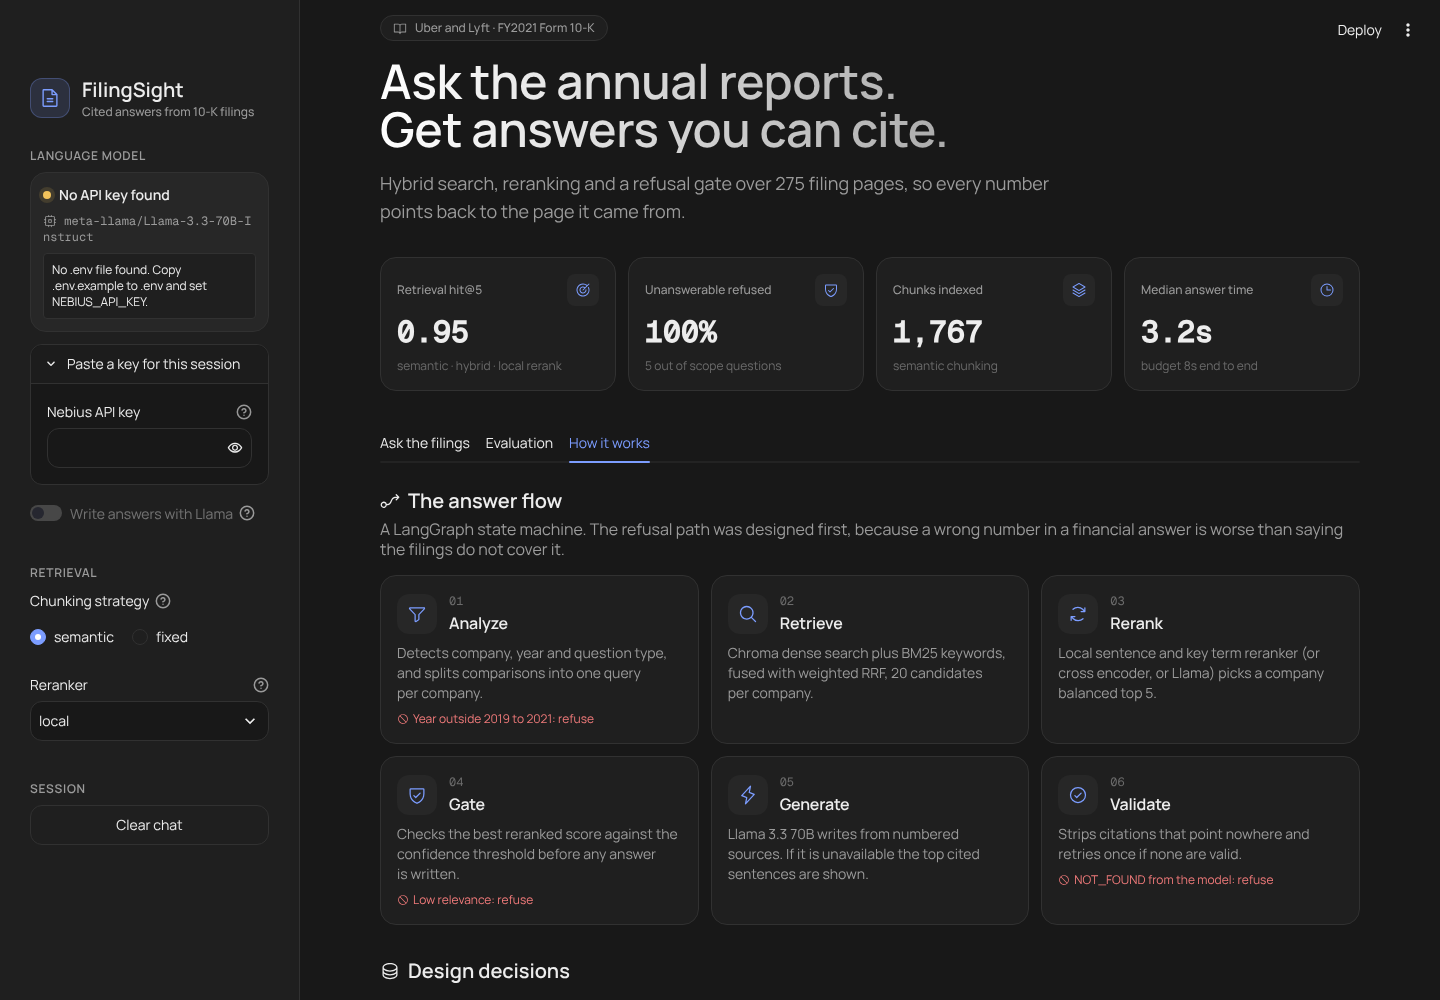
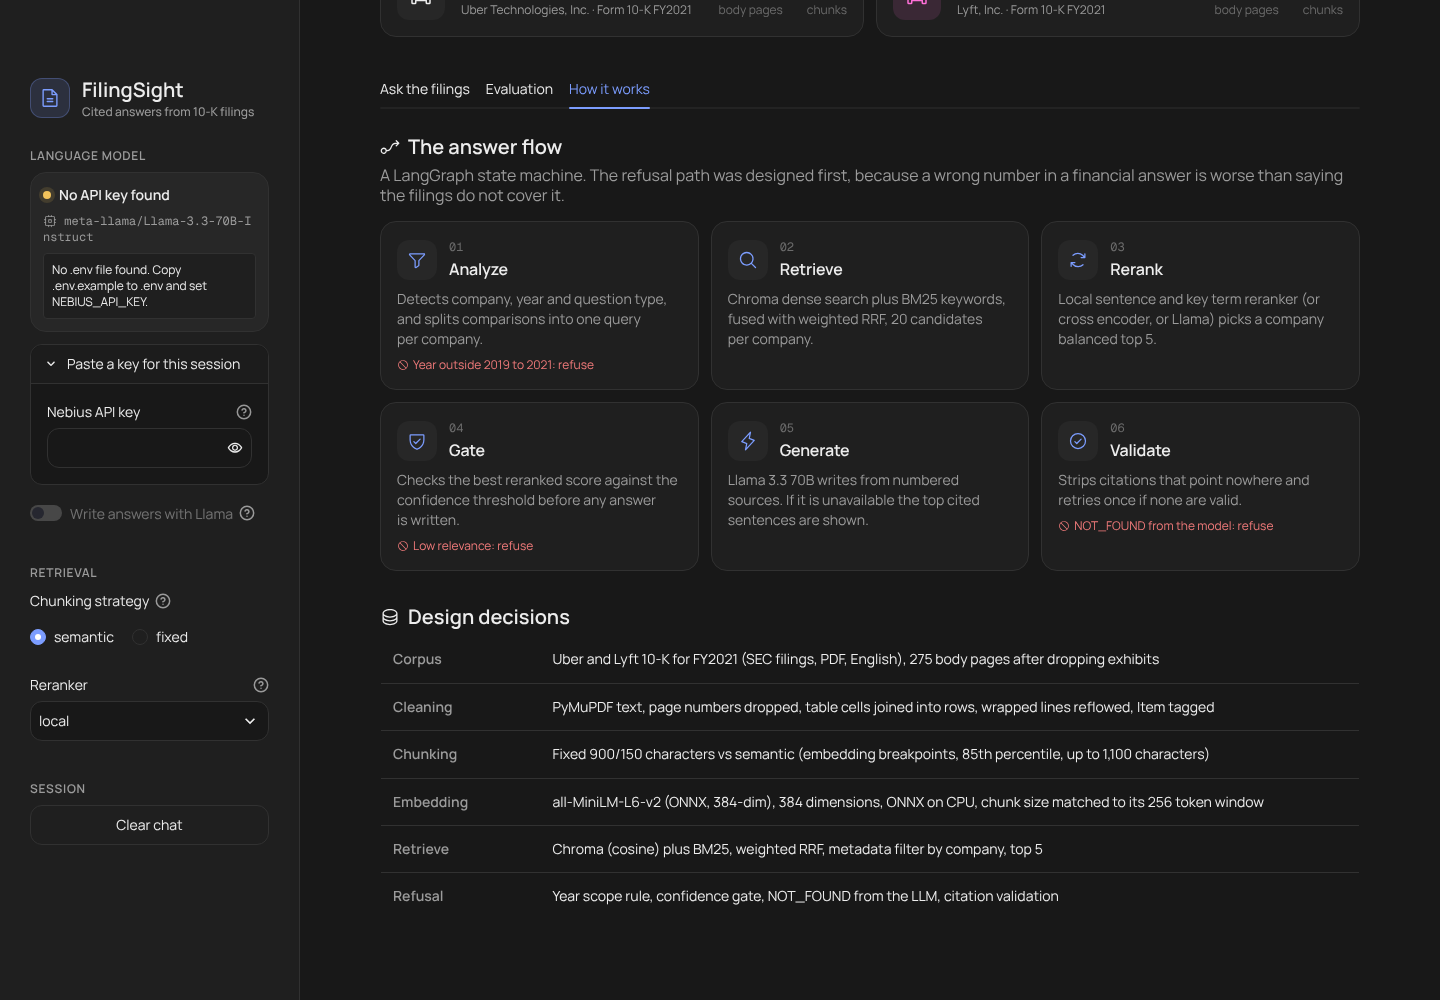
Richer UI: floating nav, hero answer preview, corpus cards, eval chart, skeleton loading, tagline reveal, footer
Follows elayadesign/ai-design-skills: translucent blurred nav, text-only hero
gradient, scroll-driven word reveal with reduced-motion fallback, skeleton
loader instead of a spinner, Phosphor icons, checked at 390px with no overflow.

Claude-Session: https://claude.ai/code/session_01JhjH9cxR2UcU4az5nLiXfC

diff --git a/app.py b/app.py
@@ -187,9 +187,83 @@ p, li{text-wrap:pretty;}
 .step .exit{font-size:12px; line-height:16px; color:var(--bad); display:flex; gap:4px; align-items:center;}
 @media (max-width:900px){.steps{grid-template-columns:1fr;}}
 
+
+/* floating nav */
+.topbar{position:sticky; top:12px; z-index:50; margin:0 auto 32px; width:fit-content; max-width:100%;
+  display:flex; align-items:center; gap:16px; padding:8px 8px 8px 16px; border-radius:999px;
+  background:rgba(31,31,31,.72); border:1px solid var(--line); backdrop-filter:blur(16px); -webkit-backdrop-filter:blur(16px);
+  animation:rise .6s var(--ease) both;}
+.topbar .tb-brand{display:flex; align-items:center; gap:8px; font-size:14px; font-weight:600; color:var(--text);}
+.topbar .tb-brand .ph{color:var(--accent);}
+.tb-pill{white-space:nowrap; display:inline-flex; align-items:center; gap:8px; font-size:12px; line-height:16px; font-weight:500; color:var(--muted);
+  padding:4px 12px; border-radius:999px; background:var(--card); border:1px solid var(--line);}
+.tb-link{display:inline-flex; align-items:center; gap:4px; font-size:14px; line-height:20px; font-weight:600; color:var(--text) !important;
+  text-decoration:none !important; padding:8px 12px; border-radius:999px; background:var(--card); border:1px solid var(--line);
+  transition:background-color .3s var(--ease), border-color .3s var(--ease), transform .5s var(--ease);}
+.tb-link:hover{border-color:var(--accent); transform:translateY(-1px);}
+.tb-link:focus-visible{outline:2px solid var(--accent); outline-offset:2px;}
+
+/* hero grid + preview card */
+.hero-grid{display:grid; grid-template-columns:minmax(0,1.15fr) minmax(0,1fr); gap:32px; align-items:center; padding-bottom:32px;}
+.hero-grid .hero{padding:0;}
+.preview{background:var(--surface); border:1px solid var(--line); border-radius:24px; padding:16px; display:flex; flex-direction:column; gap:12px;
+  animation:rise .8s var(--ease) .1s both;}
+.pv-q{align-self:flex-end; background:var(--card); border:1px solid var(--line); border-radius:16px; padding:8px 12px; font-size:14px; line-height:20px; color:var(--text); max-width:85%;}
+.pv-a{background:var(--bg); border:1px solid var(--line); border-radius:16px; padding:12px; font-size:14px; line-height:20px; color:#D6D6D6;}
+.pv-a b{color:var(--text); font-weight:600;}
+.pv-cite{font-family:'Geist Mono',monospace; font-size:12px; color:var(--accent); background:var(--accent-soft); border-radius:4px; padding:0 4px;}
+.pv-src{display:flex; align-items:center; gap:8px; border:1px solid rgba(124,157,255,.35); background:var(--surface); border-radius:8px; padding:8px; font-size:12px; line-height:16px; color:var(--muted);}
+.pv-src b{color:var(--text); font-weight:600;}
+.hero-grid .hero h1{font-size:36px; line-height:40px;}
+.hero h1 span{display:block; white-space:nowrap;}
+.hero h1{padding:0 !important; margin:0 0 16px !important;} .hero h1 [data-testid="stHeaderActionElements"], .hero h1 a{display:none !important;}
+@media (max-width:900px){.hero-grid{grid-template-columns:1fr;}}
+@media (max-width:600px){.hero-grid .hero h1{font-size:30px; line-height:36px;} .tagline p{font-size:24px; line-height:32px;} .tb-brand span{display:none;} .co-stats{gap:12px;}}
+
+/* corpus cards */
+.corpus{display:grid; grid-template-columns:repeat(2,minmax(0,1fr)); gap:12px; margin:0 0 32px;}
+.co-card{background:var(--surface); border:1px solid var(--line); border-radius:16px; padding:16px; display:flex; gap:16px; align-items:center;
+  transition:transform .5s var(--ease), border-color .3s var(--ease);}
+.co-card:hover{transform:translateY(-2px); border-color:#3d3d3d;}
+.co-logo{width:48px; height:48px; border-radius:12px; display:flex; align-items:center; justify-content:center; flex:none; background:var(--card);}
+.co-card.uber .co-logo{color:var(--uber);} .co-card.lyft .co-logo{color:var(--lyft); background:rgba(255,111,216,.12);}
+.co-name{font-size:18px; line-height:28px; font-weight:600; color:var(--text);}
+.co-meta{font-size:12px; line-height:16px; color:var(--muted);}
+.co-stats{margin-left:auto; display:flex; gap:24px; text-align:right;}
+.co-stat .v{font-family:'Geist Mono',monospace; font-size:20px; line-height:28px; color:var(--text);}
+.co-stat .l{font-size:12px; line-height:16px; color:var(--faint);}
+@media (max-width:900px){.corpus{grid-template-columns:1fr;}}
+
+/* tagline reveal */
+.tagline{padding:96px 0 64px; display:flex; justify-content:center;}
+.tagline p{max-width:800px; margin:0; font-size:36px; line-height:40px; font-weight:600; text-align:left; text-wrap:balance; color:var(--text);}
+.tagline .w{opacity:.3; display:inline-block; animation:wordin .8s var(--ease) both; animation-delay:calc(var(--i) * 60ms + .4s);}
+@supports (animation-timeline: view()){
+  .tagline .w{animation-delay:0s; animation-timeline:view();
+    animation-range:entry calc(var(--i) * 2.5%) cover calc(25% + var(--i) * 2.5%);}
+}
+@keyframes wordin{from{opacity:.3;} to{opacity:1;}}
+
+/* skeleton */
+.skel{background:var(--surface); border:1px solid var(--line); border-radius:16px; padding:16px; display:flex; flex-direction:column; gap:12px; margin-bottom:16px;}
+.skel .bar-s{height:12px; border-radius:999px; background:var(--card); position:relative; overflow:hidden;}
+.skel .bar-s::after{content:""; position:absolute; inset:0; transform:translateX(-100%);
+  background:linear-gradient(90deg,transparent,rgba(255,255,255,.06),transparent); animation:shimmer 1.4s var(--ease) infinite;}
+.skel-head{display:flex; align-items:center; gap:8px; font-size:12px; line-height:16px; color:var(--muted); font-weight:500;}
+@keyframes shimmer{to{transform:translateX(100%);}}
+
+/* footer */
+.foot{margin-top:32px; padding:24px 0; border-top:1px solid var(--line); display:flex; flex-wrap:wrap; gap:16px; align-items:center;
+  justify-content:space-between; font-size:12px; line-height:16px; color:var(--faint);}
+.foot a{color:var(--muted) !important; text-decoration:none !important; display:inline-flex; align-items:center; gap:4px;}
+.foot a:hover{color:var(--text) !important;}
+.foot .links{display:flex; gap:16px;}
+[data-testid="stVegaLiteChart"]{background:var(--surface); border:1px solid var(--line); border-radius:16px; padding:16px; margin-bottom:24px;}
+
 @media (prefers-reduced-motion: reduce){
   *{animation:none !important; transition:opacity .2s linear !important;}
-  .kpi:hover, .stButton > button:hover{transform:none;}
+  .kpi:hover, .co-card:hover, .tb-link:hover, .stButton > button:hover{transform:none;}
+  .tagline .w{opacity:1 !important; animation:none !important;}
 }
 </style>
 """
@@ -308,12 +382,26 @@ with st.sidebar:
 retr, ans = eval_summary()
 best = max(retr, key=lambda r: r.get("hit@k", 0)) if retr else {}
 
-# ---------------------------------------------------------------- hero
+# ---------------------------------------------------------------- nav + hero
+REPO = "https://github.com/balum211/FilingSight"
+mode = (f'<span class="dot ok"></span>{h(config.LLM_MODEL.split("/")[-1])}' if status.ok
+        else '<span class="dot warn"></span>Extractive mode')
 st.markdown(
-    f"""<div class="hero"><div class="eyebrow">{icon("book-open", 14)} Uber and Lyft · FY2021 Form 10-K</div>
-<h1>Ask the annual reports.<br>Get answers you can cite.</h1>
+    f'<nav class="topbar" aria-label="App"><span class="tb-brand">{icon("file-text", 18)}<span>FilingSight</span></span>'
+    f'<span class="tb-pill" title="Language model status">{mode}</span>'
+    f'<a class="tb-link" href="{REPO}" target="_blank" rel="noopener">{icon("github-logo", 16)} GitHub</a></nav>',
+    unsafe_allow_html=True,
+)
+st.markdown(
+    f"""<div class="hero-grid"><div class="hero"><div class="eyebrow">{icon("book-open", 14)} Uber and Lyft · FY2021 Form 10-K</div>
+<h1><span>Ask the annual reports.</span><span>Get answers you can cite.</span></h1>
 <p>Hybrid search, reranking and a refusal gate over 275 filing pages,
-so every number points back to the page it came from.</p></div>""",
+so every number points back to the page it came from.</p></div>
+<div class="preview" aria-label="Example answer"><div class="pv-q">How did Uber's revenue change in 2021?</div>
+<div class="pv-a"><b>Uber:</b> Revenue increased &#36;6.3 billion, or 57%, primarily attributable to an increase in Gross Bookings of 56%. <span class="pv-cite">[1]</span></div>
+<div class="pv-src">{icon("seal-check", 16)}<span><b>[1] Uber 10-K FY2021 · page 57</b> · Item 7 MD&amp;A</span></div>
+<div class="meta" style="margin:0"><span class="chip">{icon("target", 12)} relevance 0.60 · gate 0.60</span><span class="chip">{icon("clock", 12)} about 4s</span></div>
+</div></div>""",
     unsafe_allow_html=True,
 )
 
@@ -331,6 +419,28 @@ st.markdown(
     + kpi("stack", "Chunks indexed", f"{n_chunks:,}", f"{strategy} chunking")
     + kpi("clock", "Median answer time", f"{ans.get('p50_latency_ms', 0) / 1000:.1f}s" if ans else "n/a", "budget 8s end to end")
     + "</div>",
+    unsafe_allow_html=True,
+)
+
+@st.cache_data
+def company_chunks(strategy: str) -> dict:
+    counts: dict = {}
+    for d in load_index(strategy).docs:
+        c = d.metadata.get("company", "?")
+        counts[c] = counts.get(c, 0) + 1
+    return counts
+
+
+cc = company_chunks(strategy)
+CORPUS = [("uber", "Uber", "Uber Technologies, Inc.", "car-simple", 150, 307),
+          ("lyft", "Lyft", "Lyft, Inc.", "car-simple", 125, 238)]
+st.markdown(
+    '<div class="corpus">' + "".join(
+        f'<div class="co-card {k}"><div class="co-logo">{icon(ic, 24)}</div><div><div class="co-name">{name}</div>'
+        f'<div class="co-meta">{h(full)} · Form 10-K FY2021</div></div><div class="co-stats">'
+        f'<div class="co-stat"><div class="v">{body}</div><div class="l">body pages</div></div>'
+        f'<div class="co-stat"><div class="v">{cc.get(name, 0):,}</div><div class="l">chunks</div></div></div></div>'
+        for k, name, full, ic, body, _pdf in CORPUS) + "</div>",
     unsafe_allow_html=True,
 )
 
@@ -416,13 +526,20 @@ with chat_tab:
 
     question = st.chat_input("Ask about Uber or Lyft's 2021 annual report") or st.session_state.pop("pending", None)
     if question:
-        with st.spinner("Retrieving, reranking and answering"):
-            try:
-                state = ask(question, strategy=strategy, reranker=reranker, use_llm=use_llm)
-            except Exception as exc:  # surface provider errors instead of a stack trace
-                st.markdown(f'<div class="notice bad">{icon("warning-circle", 18)}<div><b>The question could not be answered.</b> '
-                            f'{h(llm.explain_error(exc))}</div></div>', unsafe_allow_html=True)
-                st.stop()
+        skeleton = st.empty()
+        skeleton.markdown(
+            f'<div class="skel" aria-busy="true"><div class="skel-head">{icon("magnifying-glass", 14)} Retrieving, reranking and '
+            f'answering: {h(question)}</div><div class="bar-s" style="width:92%"></div><div class="bar-s" style="width:78%"></div>'
+            '<div class="bar-s" style="width:85%"></div><div class="bar-s" style="width:40%"></div></div>',
+            unsafe_allow_html=True,
+        )
+        try:
+            state = ask(question, strategy=strategy, reranker=reranker, use_llm=use_llm)
+        except Exception as exc:  # surface provider errors instead of a stack trace
+            skeleton.empty()
+            st.markdown(f'<div class="notice bad">{icon("warning-circle", 18)}<div><b>The question could not be answered.</b> '
+                        f'{h(llm.explain_error(exc))}</div></div>', unsafe_allow_html=True)
+            st.stop()
         if state.get("llm_error"):
             st.session_state.pop("llm_status", None)  # recheck the badge on the next run
         history.append({"question": question, "state": state})
@@ -436,6 +553,30 @@ with eval_tab:
         unsafe_allow_html=True,
     )
     if retr:
+        import altair as alt
+        import pandas as pd
+
+        df = pd.DataFrame([{"Configuration": f"{r['mode']} + {r['reranker']} rerank" if r["reranker"] != "none" else r["mode"],
+                            "Chunking": r["strategy"], "Hit@5": r["hit@k"]} for r in retr])
+        chart = (
+            alt.Chart(df).mark_bar(cornerRadiusTopLeft=4, cornerRadiusTopRight=4)
+            .encode(
+                x=alt.X("Configuration:N", sort=["dense", "bm25", "hybrid", "hybrid + local rerank"], title=None,
+                        axis=alt.Axis(labelAngle=0)),
+                xOffset="Chunking:N",
+                y=alt.Y("Hit@5:Q", scale=alt.Scale(domain=[0, 1]), title="Hit@5"),
+                color=alt.Color("Chunking:N", scale=alt.Scale(domain=["fixed", "semantic"], range=["#6B6B6B", "#7C9DFF"]),
+                                legend=alt.Legend(orient="top", title=None)),
+                tooltip=["Chunking", "Configuration", alt.Tooltip("Hit@5:Q", format=".2f")],
+            )
+            .properties(height=280)
+            .configure(background="transparent", font="Manrope")
+            .configure_axis(gridColor="#313131", domainColor="#313131", tickColor="#313131", labelColor="#9B9B9B",
+                            titleColor="#9B9B9B", labelFontSize=12, titleFontSize=12)
+            .configure_legend(labelColor="#9B9B9B", labelFontSize=12)
+            .configure_view(strokeWidth=0)
+        )
+        st.altair_chart(chart, use_container_width=True, theme=None)
         rows = []
         for r in retr:
             cls = ' class="best"' if r is best else ""
@@ -494,3 +635,20 @@ with how_tab:
     ]
     rows = "".join(f"<tr><td style='width:160px;color:var(--muted);font-weight:600'>{h(k)}</td><td>{h(v)}</td></tr>" for k, v in DECISIONS)
     st.markdown(f"<table class='tbl'><tbody>{rows}</tbody></table>", unsafe_allow_html=True)
+
+# ---------------------------------------------------------------- tagline + footer
+TAGLINE_LINES = ["Retrieval decided quality, not the model.", "Hit@5 went from 0.65 to 0.95", "without touching the LLM."]
+st.markdown(
+    '<section class="tagline" aria-label="Key finding"><p>'
+    + "<br>".join(" ".join(f'<span class="w" style="--i:{i + 8 * n}">{h(w)}</span>' for i, w in enumerate(line.split()))
+                  for n, line in enumerate(TAGLINE_LINES))
+    + "</p></section>",
+    unsafe_allow_html=True,
+)
+st.markdown(
+    f'<footer class="foot"><span>For learning purposes only, not investment advice. Figures come from FY2021 filings.</span>'
+    f'<span class="links"><a href="{REPO}" target="_blank" rel="noopener">{icon("github-logo", 14)} Source code</a>'
+    f'<a href="https://www.sec.gov/edgar/search/" target="_blank" rel="noopener">{icon("arrow-up-right", 14)} SEC EDGAR</a>'
+    f'<a href="https://github.com/elayadesign/ai-design-skills" target="_blank" rel="noopener">{icon("sparkle", 14)} Design rules</a></span></footer>',
+    unsafe_allow_html=True,
+)

diff --git a/src/filingsight/icons.py b/src/filingsight/icons.py
@@ -29,6 +29,14 @@ _PATHS = {
     "target": '<path d="M221.87,83.16A104.1,104.1,0,1,1,195.67,49l22.67-22.68a8,8,0,0,1,11.32,11.32l-96,96a8,8,0,0,1-11.32-11.32l27.72-27.72a40,40,0,1,0,17.87,31.09,8,8,0,1,1,16-.9,56,56,0,1,1-22.38-41.65L184.3,60.39a87.88,87.88,0,1,0,23.13,29.67,8,8,0,0,1,14.44-6.9Z"/>',
     "arrows-clockwise": '<path d="M224,48V96a8,8,0,0,1-8,8H168a8,8,0,0,1,0-16h28.69L182.06,73.37a79.56,79.56,0,0,0-56.13-23.43h-.45A79.52,79.52,0,0,0,69.59,72.71,8,8,0,0,1,58.41,61.27a96,96,0,0,1,135,.79L208,76.69V48a8,8,0,0,1,16,0ZM186.41,183.29a80,80,0,0,1-112.47-.66L59.31,168H88a8,8,0,0,0,0-16H40a8,8,0,0,0-8,8v48a8,8,0,0,0,16,0V179.31l14.63,14.63A95.43,95.43,0,0,0,130,222.06h.53a95.36,95.36,0,0,0,67.07-27.33,8,8,0,0,0-11.18-11.44Z"/>',
     "path": '<path d="M200,168a32.06,32.06,0,0,0-31,24H72a32,32,0,0,1,0-64h96a40,40,0,0,0,0-80H72a8,8,0,0,0,0,16h96a24,24,0,0,1,0,48H72a48,48,0,0,0,0,96h97a32,32,0,1,0,31-40Zm0,48a16,16,0,1,1,16-16A16,16,0,0,1,200,216Z"/>',
+    "github-logo": '<path d="M208.31,75.68A59.78,59.78,0,0,0,202.93,28,8,8,0,0,0,196,24a59.75,59.75,0,0,0-48,24H124A59.75,59.75,0,0,0,76,24a8,8,0,0,0-6.93,4,59.78,59.78,0,0,0-5.38,47.68A58.14,58.14,0,0,0,56,104v8a56.06,56.06,0,0,0,48.44,55.47A39.8,39.8,0,0,0,96,192v8H72a24,24,0,0,1-24-24A40,40,0,0,0,8,136a8,8,0,0,0,0,16,24,24,0,0,1,24,24,40,40,0,0,0,40,40H96v16a8,8,0,0,0,16,0V192a24,24,0,0,1,48,0v40a8,8,0,0,0,16,0V192a39.8,39.8,0,0,0-8.44-24.53A56.06,56.06,0,0,0,216,112v-8A58.14,58.14,0,0,0,208.31,75.68ZM200,112a40,40,0,0,1-40,40H112a40,40,0,0,1-40-40v-8a41.74,41.74,0,0,1,6.9-22.48A8,8,0,0,0,80,73.83a43.81,43.81,0,0,1,.79-33.58,43.88,43.88,0,0,1,32.32,20.06A8,8,0,0,0,119.82,64h32.35a8,8,0,0,0,6.74-3.69,43.87,43.87,0,0,1,32.32-20.06A43.81,43.81,0,0,1,192,73.83a8.09,8.09,0,0,0,1,7.65A41.72,41.72,0,0,1,200,104Z"/>',
+    "buildings": '<path d="M240,208H224V96a16,16,0,0,0-16-16H144V32a16,16,0,0,0-24.88-13.32L39.12,72A16,16,0,0,0,32,85.34V208H16a8,8,0,0,0,0,16H240a8,8,0,0,0,0-16ZM208,96V208H144V96ZM48,85.34,128,32V208H48ZM112,112v16a8,8,0,0,1-16,0V112a8,8,0,1,1,16,0Zm-32,0v16a8,8,0,0,1-16,0V112a8,8,0,1,1,16,0Zm0,56v16a8,8,0,0,1-16,0V168a8,8,0,0,1,16,0Zm32,0v16a8,8,0,0,1-16,0V168a8,8,0,0,1,16,0Z"/>',
+    "car-simple": '<path d="M240,104H229.2L201.42,41.5A16,16,0,0,0,186.8,32H69.2a16,16,0,0,0-14.62,9.5L26.8,104H16a8,8,0,0,0,0,16h8v80a16,16,0,0,0,16,16H64a16,16,0,0,0,16-16V184h96v16a16,16,0,0,0,16,16h24a16,16,0,0,0,16-16V120h8a8,8,0,0,0,0-16ZM69.2,48H186.8l24.89,56H44.31ZM216,200H192V176a8,8,0,0,0-8-8H72a8,8,0,0,0-8,8v24H40V120H216Z"/>',
+    "scales": '<path d="M239.43,133l-32-80h0a8,8,0,0,0-9.16-4.84L136,62V40a8,8,0,0,0-16,0V65.58L54.26,80.19A8,8,0,0,0,48.57,85h0v.06L16.57,165a7.92,7.92,0,0,0-.57,3c0,23.31,24.54,32,40,32s40-8.69,40-32a7.92,7.92,0,0,0-.57-3L66.92,93.77,120,82V208H104a8,8,0,0,0,0,16h48a8,8,0,0,0,0-16H136V78.42L187,67.1,160.57,133a7.92,7.92,0,0,0-.57,3c0,23.31,24.54,32,40,32s40-8.69,40-32A7.92,7.92,0,0,0,239.43,133ZM56,184c-7.53,0-22.76-3.61-23.93-14.64L56,109.54l23.93,59.82C78.76,180.39,63.53,184,56,184Zm144-32c-7.53,0-22.76-3.61-23.93-14.64L200,77.54l23.93,59.82C222.76,148.39,207.53,152,200,152Z"/>',
+    "sparkle": '<path d="M197.58,129.06,146,110l-19-51.62a15.92,15.92,0,0,0-29.88,0L78,110l-51.62,19a15.92,15.92,0,0,0,0,29.88L78,178l19,51.62a15.92,15.92,0,0,0,29.88,0L146,178l51.62-19a15.92,15.92,0,0,0,0-29.88ZM137,164.22a8,8,0,0,0-4.74,4.74L112,223.85,91.78,169A8,8,0,0,0,87,164.22L32.15,144,87,123.78A8,8,0,0,0,91.78,119L112,64.15,132.22,119a8,8,0,0,0,4.74,4.74L191.85,144ZM144,40a8,8,0,0,1,8-8h16V16a8,8,0,0,1,16,0V32h16a8,8,0,0,1,0,16H184V64a8,8,0,0,1-16,0V48H152A8,8,0,0,1,144,40ZM248,88a8,8,0,0,1-8,8h-8v8a8,8,0,0,1-16,0V96h-8a8,8,0,0,1,0-16h8V72a8,8,0,0,1,16,0v8h8A8,8,0,0,1,248,88Z"/>',
+    "arrow-up-right": '<path d="M200,64V168a8,8,0,0,1-16,0V83.31L69.66,197.66a8,8,0,0,1-11.32-11.32L172.69,72H88a8,8,0,0,1,0-16H192A8,8,0,0,1,200,64Z"/>',
+    "seal-check": '<path d="M225.86,102.82c-3.77-3.94-7.67-8-9.14-11.57-1.36-3.27-1.44-8.69-1.52-13.94-.15-9.76-.31-20.82-8-28.51s-18.75-7.85-28.51-8c-5.25-.08-10.67-.16-13.94-1.52-3.56-1.47-7.63-5.37-11.57-9.14C146.28,23.51,138.44,16,128,16s-18.27,7.51-25.18,14.14c-3.94,3.77-8,7.67-11.57,9.14C88,40.64,82.56,40.72,77.31,40.8c-9.76.15-20.82.31-28.51,8S41,67.55,40.8,77.31c-.08,5.25-.16,10.67-1.52,13.94-1.47,3.56-5.37,7.63-9.14,11.57C23.51,109.72,16,117.56,16,128s7.51,18.27,14.14,25.18c3.77,3.94,7.67,8,9.14,11.57,1.36,3.27,1.44,8.69,1.52,13.94.15,9.76.31,20.82,8,28.51s18.75,7.85,28.51,8c5.25.08,10.67.16,13.94,1.52,3.56,1.47,7.63,5.37,11.57,9.14C109.72,232.49,117.56,240,128,240s18.27-7.51,25.18-14.14c3.94-3.77,8-7.67,11.57-9.14,3.27-1.36,8.69-1.44,13.94-1.52,9.76-.15,20.82-.31,28.51-8s7.85-18.75,8-28.51c.08-5.25.16-10.67,1.52-13.94,1.47-3.56,5.37-7.63,9.14-11.57C232.49,146.28,240,138.44,240,128S232.49,109.73,225.86,102.82Zm-11.55,39.29c-4.79,5-9.75,10.17-12.38,16.52-2.52,6.1-2.63,13.07-2.73,19.82-.1,7-.21,14.33-3.32,17.43s-10.39,3.22-17.43,3.32c-6.75.1-13.72.21-19.82,2.73-6.35,2.63-11.52,7.59-16.52,12.38S132,224,128,224s-9.15-4.92-14.11-9.69-10.17-9.75-16.52-12.38c-6.1-2.52-13.07-2.63-19.82-2.73-7-.1-14.33-.21-17.43-3.32s-3.22-10.39-3.32-17.43c-.1-6.75-.21-13.72-2.73-19.82-2.63-6.35-7.59-11.52-12.38-16.52S32,132,32,128s4.92-9.15,9.69-14.11,9.75-10.17,12.38-16.52c2.52-6.1,2.63-13.07,2.73-19.82.1-7,.21-14.33,3.32-17.43S70.51,56.9,77.55,56.8c6.75-.1,13.72-.21,19.82-2.73,6.35-2.63,11.52-7.59,16.52-12.38S124,32,128,32s9.15,4.92,14.11,9.69,10.17,9.75,16.52,12.38c6.1,2.52,13.07,2.63,19.82,2.73,7,.1,14.33.21,17.43,3.32s3.22,10.39,3.32,17.43c.1,6.75.21,13.72,2.73,19.82,2.63,6.35,7.59,11.52,12.38,16.52S224,124,224,128,219.08,137.15,214.31,142.11ZM173.66,98.34a8,8,0,0,1,0,11.32l-56,56a8,8,0,0,1-11.32,0l-24-24a8,8,0,0,1,11.32-11.32L112,148.69l50.34-50.35A8,8,0,0,1,173.66,98.34Z"/>',
+    "info": '<path d="M128,24A104,104,0,1,0,232,128,104.11,104.11,0,0,0,128,24Zm0,192a88,88,0,1,1,88-88A88.1,88.1,0,0,1,128,216Zm16-40a8,8,0,0,1-8,8,16,16,0,0,1-16-16V128a8,8,0,0,1,0-16,16,16,0,0,1,16,16v40A8,8,0,0,1,144,176ZM112,84a12,12,0,1,1,12,12A12,12,0,0,1,112,84Z"/>',
 }
 
 
